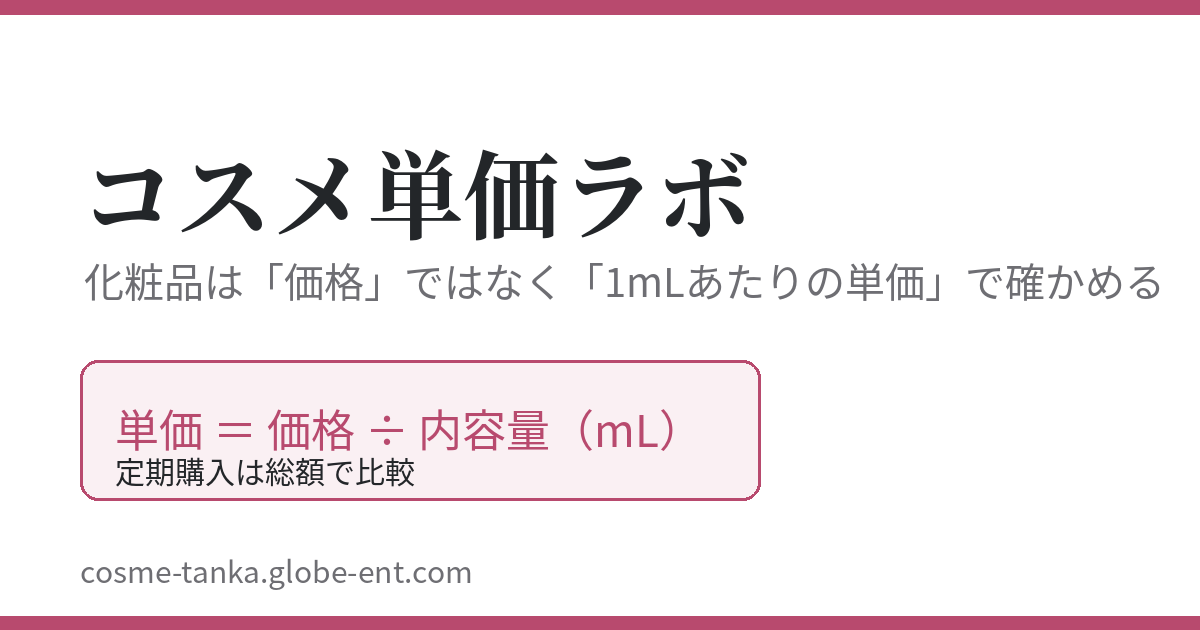
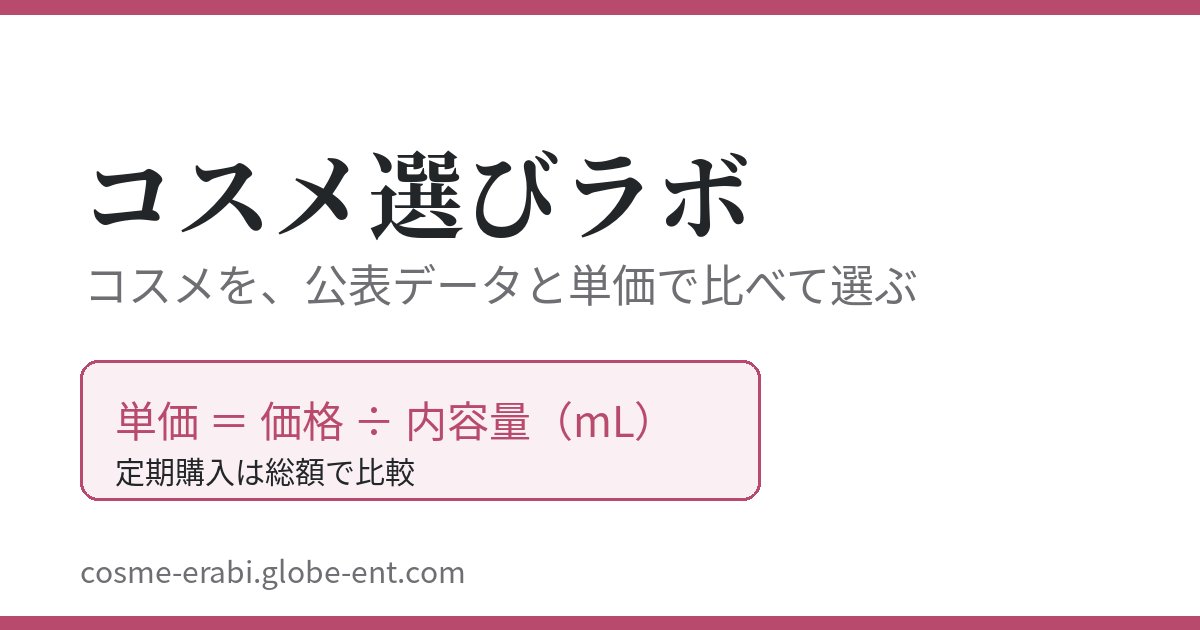
コスメ選びラボへリブランド（新ドメイン対応）

diff --git a/index.html b/index.html
@@ -3,31 +3,31 @@
 <head>
 <meta charset="utf-8">
 <meta name="viewport" content="width=device-width, initial-scale=1">
-<title>コスメ単価ラボ｜化粧品は「価格」ではなく1mLあたり単価と総額で確かめる</title>
+<title>コスメ選びラボ｜コスメを、公表データと単価で比べて選ぶ</title>
 <meta name="description" content="化粧品の価格・容量・購入条件を、メーカー公式情報と特定商取引法の表記で確認し、1mLあたり単価と定期購入の総額で比べるメディアです。使用感のレビューではなく、検証できる数字だけを扱います。">
 <link rel="preconnect" href="https://fonts.googleapis.com">
 <link rel="preconnect" href="https://fonts.gstatic.com" crossorigin>
 <link href="https://fonts.googleapis.com/css2?family=Zen+Kaku+Gothic+New:wght@400;500;700&family=Zen+Maru+Gothic:wght@500;700;900&display=swap" rel="stylesheet">
 <link rel="stylesheet" href="style.css">
-<meta property="og:title" content="コスメ単価ラボ｜化粧品は「価格」ではなく1mLあたり単価と総額で確かめる">
+<meta property="og:title" content="コスメ選びラボ｜コスメを、公表データと単価で比べて選ぶ">
 <meta property="og:description" content="化粧品の価格・容量・購入条件を、メーカー公式情報と特定商取引法の表記で確認し、1mLあたり単価と定期購入の総額で比べるメディアです。">
 <meta property="og:type" content="website">
-<meta property="og:url" content="https://cosme-tanka.globe-ent.com/">
-<meta property="og:image" content="https://cosme-tanka.globe-ent.com/ogp.png">
+<meta property="og:url" content="https://cosme-erabi.globe-ent.com/">
+<meta property="og:image" content="https://cosme-erabi.globe-ent.com/ogp.png">
 <meta name="twitter:card" content="summary_large_image">
-<meta name="twitter:image" content="https://cosme-tanka.globe-ent.com/ogp.png">
+<meta name="twitter:image" content="https://cosme-erabi.globe-ent.com/ogp.png">
 <link rel="icon" type="image/svg+xml" href="/favicon.svg">
-<link rel="alternate" type="application/rss+xml" title="コスメ単価ラボ" href="https://cosme-tanka.globe-ent.com/rss.xml">
+<link rel="alternate" type="application/rss+xml" title="コスメ選びラボ" href="https://cosme-erabi.globe-ent.com/rss.xml">
 <script type="application/ld+json">
 {
   "@context": "https://schema.org",
   "@graph": [
     {
       "@type": "Organization",
-      "@id": "https://cosme-tanka.globe-ent.com/#org",
-      "name": "コスメ単価ラボ",
-      "url": "https://cosme-tanka.globe-ent.com/",
-      "logo": "https://cosme-tanka.globe-ent.com/favicon.svg",
+      "@id": "https://cosme-erabi.globe-ent.com/#org",
+      "name": "コスメ選びラボ",
+      "url": "https://cosme-erabi.globe-ent.com/",
+      "logo": "https://cosme-erabi.globe-ent.com/favicon.svg",
       "sameAs": [
         "https://note.com/tabi_status_lab",
         "https://www.youtube.com/@tabi_status_lab",
@@ -36,10 +36,10 @@
     },
     {
       "@type": "WebSite",
-      "@id": "https://cosme-tanka.globe-ent.com/#site",
-      "name": "コスメ単価ラボ",
-      "url": "https://cosme-tanka.globe-ent.com/",
-      "publisher": { "@id": "https://cosme-tanka.globe-ent.com/#org" },
+      "@id": "https://cosme-erabi.globe-ent.com/#site",
+      "name": "コスメ選びラボ",
+      "url": "https://cosme-erabi.globe-ent.com/",
+      "publisher": { "@id": "https://cosme-erabi.globe-ent.com/#org" },
       "inLanguage": "ja"
     }
   ]
@@ -48,7 +48,7 @@
 </head>
 <body>
 <header class="site">
-  <div class="name"><a href="index.html">コスメ単価ラボ</a></div>
+  <div class="name"><a href="index.html">コスメ選びラボ</a></div>
   <div class="tag">化粧品は、表示価格ではなく「単価」と「総額」で確かめるためのメディアです。</div>
   <nav class="main">
     <a href="articles.html">記事一覧</a>
@@ -57,7 +57,7 @@
 </header>
 <main>
   <p class="leadline">同じ化粧水でも、容量が違えば価格の意味が違う。</p>
-  <p class="leadsub">化粧品の価格は、本体・詰め替え・大容量・携帯用で容量がバラバラです。このサイトでは、税込価格 ÷ 内容量 ＝「1mLあたり単価」に直し、定期購入は「最低継続回数までの総額」で比べます。使ってみた感想ではなく、公式情報で検証できる数字だけを扱います。</p>
+  <p class="leadsub">コスメ選びラボは、化粧品を「公表データ」で比べて選ぶためのサイトです。メーカー公表の価格・容量・スペックを横並びにし、1mLあたり単価や定期購入の総額といった計算を重ねて、表示価格だけでは分からない違いを整理します。使ってみた感想ではなく、公式情報で検証できる数字だけを扱います。</p>
   <p class="dateline">公開日：2026年11月9日｜最終更新日：2026年11月9日｜情報確認日：2026年11月9日（下記の数値の確認日）</p>
   <figure>
     <div class="sheet">
@@ -70,11 +70,11 @@
   <div class="disclosure">このサイトはアフィリエイトプログラムを利用する場合があります。広告を含む記事には「PR」と明記します。方針は<a href="about.html">運営者情報と広告・編集方針</a>をご覧ください。</div>
 
   <h1>このサイトでやること</h1>
-  <p>化粧品の比較で失敗する典型は、「○円」という表示価格だけを見て決めることです。容量が違えば単価は変わり、定期購入は初回価格と総額が大きくずれます。このサイトでは、次の3つだけを扱います。</p>
-  <div class="card"><div class="t">1. 単価の計算</div><div class="d">税込価格 ÷ 内容量で、1mL（または1g）あたりの単価を出します。本体・詰め替え・大容量・セット品を同じ物差しに乗せます。</div></div>
-  <div class="card"><div class="t">2. 定期購入の総額表示</div><div class="d">定期コースは初回価格ではなく、最低継続回数までの総支払額と解約条件で比べます。一次情報源は各販売元の特定商取引法の表記です。</div></div>
-  <div class="card"><div class="t">3. 条件の確認</div><div class="d">容量表記、購入形態、解約の申出期限など、買う前に公式情報で確かめるべき条件を整理します。</div></div>
-  <p>なお、このサイトは<strong>レビューサイトではありません</strong>。運営者が使っていない商品の使用感や効果は書きません。効能に触れる場合も、厚生労働省が化粧品で表示できると定めた効能の範囲（56項目）の中だけに限ります。</p>
+  <p>化粧品の比較で失敗する典型は、「○円」という表示価格だけを見て決めることです。容量が違えば単価は変わり、定期購入は初回価格と総額が大きくずれます。このサイトでは、次の3つを扱います。</p>
+  <div class="card"><div class="t">1. 商品を比べる</div><div class="d">メーカー公表のスペック・価格・容量を横並びにし、販売サイトのレビュー件数などの統計と単価を添えて、用途に合わせた選び方を整理します。</div></div>
+  <div class="card"><div class="t">2. 単価の計算</div><div class="d">税込価格 ÷ 内容量で、1mL（または1g）あたりの単価を出します。本体・詰め替え・大容量・セット品を同じ物差しに乗せます。</div></div>
+  <div class="card"><div class="t">3. 定期購入の総額表示</div><div class="d">定期コースは初回価格ではなく、最低継続回数までの総支払額と解約条件で比べます。一次情報源は各販売元の特定商取引法の表記です。</div></div>
+  <p>なお、運営者が使っていない商品の使用感や効果は書きません。商品の紹介は、メーカー公表の情報と検証できる数字に基づいて行います。効能に触れる場合も、厚生労働省が化粧品で表示できると定めた効能の範囲（56項目）の中だけに限ります。</p>
 
   <h2>記事</h2>
   <a class="thumbrow" href="articles/ml-tanka-dashikata.html"><span><span class="t">化粧水・乳液の「1mLあたり単価」の出し方 — 本体・詰め替え・大容量を同じ土俵で比べる</span><span class="d">検証計算：単価＝税込価格÷内容量の定義、容量表記の読み方、無印良品の公式価格で実際に計算した例を示します。</span></span></a>
@@ -83,7 +83,7 @@
 <footer class="site">
   <a href="about.html">運営者情報・広告方針</a><a href="privacy.html">プライバシーポリシー</a><a href="contact.html">お問い合わせ</a>
   <div class="sister">姉妹メディア：<a href="https://travel.globe-ent.com/">旅ステータスラボ</a>／<a href="https://furusato.globe-ent.com/">限度額ラボ</a>／<a href="https://koteihi.globe-ent.com/">固定費ラボ</a></div>
-  <div>© コスメ単価ラボ</div>
+  <div>© コスメ選びラボ</div>
 </footer>
 </body>
 </html>

diff --git a/about.html b/about.html
@@ -3,27 +3,27 @@
 <head>
 <meta charset="utf-8">
 <meta name="viewport" content="width=device-width, initial-scale=1">
-<title>運営者情報と広告・編集方針｜コスメ単価ラボ</title>
+<title>運営者情報と広告・編集方針｜コスメ選びラボ</title>
 <link rel="preconnect" href="https://fonts.googleapis.com">
 <link rel="preconnect" href="https://fonts.gstatic.com" crossorigin>
 <link href="https://fonts.googleapis.com/css2?family=Zen+Kaku+Gothic+New:wght@400;500;700&family=Zen+Maru+Gothic:wght@500;700;900&display=swap" rel="stylesheet">
 <link rel="stylesheet" href="style.css">
-<meta property="og:title" content="運営者情報と広告・編集方針｜コスメ単価ラボ">
+<meta property="og:title" content="運営者情報と広告・編集方針｜コスメ選びラボ">
 <meta property="og:description" content="化粧品の価格・容量・購入条件を公式情報で確認し、1mLあたり単価と定期購入の総額で比べるメディアです。">
 <meta property="og:type" content="website">
-<meta property="og:url" content="https://cosme-tanka.globe-ent.com/about.html">
-<meta property="og:image" content="https://cosme-tanka.globe-ent.com/ogp.png">
+<meta property="og:url" content="https://cosme-erabi.globe-ent.com/about.html">
+<meta property="og:image" content="https://cosme-erabi.globe-ent.com/ogp.png">
 <meta name="twitter:card" content="summary_large_image">
-<meta name="twitter:image" content="https://cosme-tanka.globe-ent.com/ogp.png">
+<meta name="twitter:image" content="https://cosme-erabi.globe-ent.com/ogp.png">
 <link rel="icon" type="image/svg+xml" href="/favicon.svg">
 <script type="application/ld+json">
 {
   "@context": "https://schema.org",
   "@type": "Organization",
-  "@id": "https://cosme-tanka.globe-ent.com/#org",
-  "name": "コスメ単価ラボ",
-  "url": "https://cosme-tanka.globe-ent.com/",
-  "logo": "https://cosme-tanka.globe-ent.com/favicon.svg",
+  "@id": "https://cosme-erabi.globe-ent.com/#org",
+  "name": "コスメ選びラボ",
+  "url": "https://cosme-erabi.globe-ent.com/",
+  "logo": "https://cosme-erabi.globe-ent.com/favicon.svg",
   "sameAs": [
     "https://note.com/tabi_status_lab",
     "https://www.youtube.com/@tabi_status_lab",
@@ -34,7 +34,7 @@
 </head>
 <body>
 <header class="site">
-  <div class="name"><a href="index.html">コスメ単価ラボ</a></div>
+  <div class="name"><a href="index.html">コスメ選びラボ</a></div>
   <nav class="main">
     <a href="articles.html">記事一覧</a>
     <a href="articles/ml-tanka-dashikata.html">1mL単価の出し方</a>
@@ -46,11 +46,11 @@
 
   <h2>運営者情報</h2>
   <table>
-    <tr><th>サイト名</th><td>コスメ単価ラボ（cosme-tanka.globe-ent.com）</td></tr>
+    <tr><th>サイト名</th><td>コスメ選びラボ（cosme-erabi.globe-ent.com）</td></tr>
     <tr><th>運営者</th><td>globe Entertainment</td></tr>
     <tr><th>連絡先</th><td><a href="contact.html">お問い合わせフォーム</a>（メールアドレスは公開していません）</td></tr>
     <tr><th>公式アカウント</th><td>姉妹メディアと共通で、<a href="https://note.com/tabi_status_lab" target="_blank" rel="noopener">note</a>／<a href="https://www.youtube.com/@tabi_status_lab" target="_blank" rel="noopener">YouTube</a>／<a href="https://www.threads.com/@tabi_status_lab" target="_blank" rel="noopener">Threads</a>（いずれも「旅ステータスラボ」名義）で更新情報を発信しています。</td></tr>
-    <tr><th>運営の目的</th><td>化粧品の価格・容量・購入条件について、一次情報に基づく検証計算の記事を提供すること。「レビューサイト」ではなく、価格と条件を検証する比較メディアです。</td></tr>
+    <tr><th>運営の目的</th><td>化粧品の商品紹介と比較の記事を、メーカー公表の情報と検証できる数字（単価・総額・レビュー統計など）に基づいて提供すること。使用感のレビューではなく、公表データで比べる比較メディアです。</td></tr>
     <tr><th>収益について</th><td>本サイトは、アフィリエイトプログラムによる広告収入で運営される場合があります。広告の扱いは下記の方針のとおりです。</td></tr>
   </table>
   <p>運営者の詳細な情報（氏名・住所等）については、法令に基づく開示請求があった場合に遅滞なく対応します。広告主およびASP（アフィリエイト・サービス・プロバイダ）に対しては、登録時に必要な情報を別途提出します。</p>
@@ -93,7 +93,7 @@
 <footer class="site">
   <a href="about.html">運営者情報・広告方針</a><a href="privacy.html">プライバシーポリシー</a><a href="contact.html">お問い合わせ</a>
   <div class="sister">姉妹メディア：<a href="https://travel.globe-ent.com/">旅ステータスラボ</a>／<a href="https://furusato.globe-ent.com/">限度額ラボ</a>／<a href="https://koteihi.globe-ent.com/">固定費ラボ</a></div>
-  <div>© コスメ単価ラボ</div>
+  <div>© コスメ選びラボ</div>
 </footer>
 </body>
 </html>

diff --git a/articles.html b/articles.html
@@ -3,24 +3,24 @@
 <head>
 <meta charset="utf-8">
 <meta name="viewport" content="width=device-width, initial-scale=1">
-<title>記事一覧｜コスメ単価ラボ</title>
-<meta name="description" content="コスメ単価ラボの記事一覧。化粧品の1mLあたり単価の計算方法と、定期購入の総額・解約条件の読み方をカテゴリ別に並べています。キーワードで絞り込みもできます。">
+<title>記事一覧｜コスメ選びラボ</title>
+<meta name="description" content="コスメ選びラボの記事一覧。化粧品の1mLあたり単価の計算方法と、定期購入の総額・解約条件の読み方をカテゴリ別に並べています。キーワードで絞り込みもできます。">
 <link rel="preconnect" href="https://fonts.googleapis.com">
 <link rel="preconnect" href="https://fonts.gstatic.com" crossorigin>
 <link href="https://fonts.googleapis.com/css2?family=Zen+Kaku+Gothic+New:wght@400;500;700&family=Zen+Maru+Gothic:wght@500;700;900&display=swap" rel="stylesheet">
 <link rel="stylesheet" href="style.css">
-<meta property="og:title" content="記事一覧｜コスメ単価ラボ">
-<meta property="og:description" content="コスメ単価ラボの記事一覧。化粧品の1mLあたり単価の計算方法と、定期購入の総額・解約条件の読み方をカテゴリ別に並べています。キーワードで絞り込みもできます。">
+<meta property="og:title" content="記事一覧｜コスメ選びラボ">
+<meta property="og:description" content="コスメ選びラボの記事一覧。化粧品の1mLあたり単価の計算方法と、定期購入の総額・解約条件の読み方をカテゴリ別に並べています。キーワードで絞り込みもできます。">
 <meta property="og:type" content="website">
-<meta property="og:url" content="https://cosme-tanka.globe-ent.com/articles.html">
-<meta property="og:image" content="https://cosme-tanka.globe-ent.com/ogp.png">
+<meta property="og:url" content="https://cosme-erabi.globe-ent.com/articles.html">
+<meta property="og:image" content="https://cosme-erabi.globe-ent.com/ogp.png">
 <meta name="twitter:card" content="summary_large_image">
-<meta name="twitter:image" content="https://cosme-tanka.globe-ent.com/ogp.png">
+<meta name="twitter:image" content="https://cosme-erabi.globe-ent.com/ogp.png">
 <link rel="icon" type="image/svg+xml" href="/favicon.svg">
 </head>
 <body>
 <header class="site">
-  <div class="name"><a href="index.html">コスメ単価ラボ</a></div>
+  <div class="name"><a href="index.html">コスメ選びラボ</a></div>
   <nav class="main">
     <a href="articles.html">記事一覧</a>
     <a href="articles/ml-tanka-dashikata.html">1mL単価の出し方</a>
@@ -66,7 +66,7 @@
 <footer class="site">
   <a href="about.html">運営者情報・広告方針</a><a href="privacy.html">プライバシーポリシー</a><a href="contact.html">お問い合わせ</a>
   <div class="sister">姉妹メディア：<a href="https://travel.globe-ent.com/">旅ステータスラボ</a>／<a href="https://furusato.globe-ent.com/">限度額ラボ</a>／<a href="https://koteihi.globe-ent.com/">固定費ラボ</a></div>
-  <div>© コスメ単価ラボ</div>
+  <div>© コスメ選びラボ</div>
 </footer>
 <script>
 (function(){

diff --git a/privacy.html b/privacy.html
@@ -3,23 +3,23 @@
 <head>
 <meta charset="utf-8">
 <meta name="viewport" content="width=device-width, initial-scale=1">
-<title>プライバシーポリシー｜コスメ単価ラボ</title>
+<title>プライバシーポリシー｜コスメ選びラボ</title>
 <link rel="preconnect" href="https://fonts.googleapis.com">
 <link rel="preconnect" href="https://fonts.gstatic.com" crossorigin>
 <link href="https://fonts.googleapis.com/css2?family=Zen+Kaku+Gothic+New:wght@400;500;700&family=Zen+Maru+Gothic:wght@500;700;900&display=swap" rel="stylesheet">
 <link rel="stylesheet" href="style.css">
-<meta property="og:title" content="プライバシーポリシー｜コスメ単価ラボ">
+<meta property="og:title" content="プライバシーポリシー｜コスメ選びラボ">
 <meta property="og:description" content="化粧品の価格・容量・購入条件を公式情報で確認し、1mLあたり単価と定期購入の総額で比べるメディアです。">
 <meta property="og:type" content="website">
-<meta property="og:url" content="https://cosme-tanka.globe-ent.com/privacy.html">
-<meta property="og:image" content="https://cosme-tanka.globe-ent.com/ogp.png">
+<meta property="og:url" content="https://cosme-erabi.globe-ent.com/privacy.html">
+<meta property="og:image" content="https://cosme-erabi.globe-ent.com/ogp.png">
 <meta name="twitter:card" content="summary_large_image">
-<meta name="twitter:image" content="https://cosme-tanka.globe-ent.com/ogp.png">
+<meta name="twitter:image" content="https://cosme-erabi.globe-ent.com/ogp.png">
 <link rel="icon" type="image/svg+xml" href="/favicon.svg">
 </head>
 <body>
 <header class="site">
-  <div class="name"><a href="index.html">コスメ単価ラボ</a></div>
+  <div class="name"><a href="index.html">コスメ選びラボ</a></div>
   <nav class="main">
     <a href="articles.html">記事一覧</a>
     <a href="articles/ml-tanka-dashikata.html">1mL単価の出し方</a>
@@ -38,7 +38,7 @@
 <footer class="site">
   <a href="about.html">運営者情報・広告方針</a><a href="privacy.html">プライバシーポリシー</a><a href="contact.html">お問い合わせ</a>
   <div class="sister">姉妹メディア：<a href="https://travel.globe-ent.com/">旅ステータスラボ</a>／<a href="https://furusato.globe-ent.com/">限度額ラボ</a>／<a href="https://koteihi.globe-ent.com/">固定費ラボ</a></div>
-  <div>© コスメ単価ラボ</div>
+  <div>© コスメ選びラボ</div>
 </footer>
 </body>
 </html>

diff --git a/contact.html b/contact.html
@@ -3,23 +3,23 @@
 <head>
 <meta charset="utf-8">
 <meta name="viewport" content="width=device-width, initial-scale=1">
-<title>お問い合わせ｜コスメ単価ラボ</title>
+<title>お問い合わせ｜コスメ選びラボ</title>
 <link rel="preconnect" href="https://fonts.googleapis.com">
 <link rel="preconnect" href="https://fonts.gstatic.com" crossorigin>
 <link href="https://fonts.googleapis.com/css2?family=Zen+Kaku+Gothic+New:wght@400;500;700&family=Zen+Maru+Gothic:wght@500;700;900&display=swap" rel="stylesheet">
 <link rel="stylesheet" href="style.css">
-<meta property="og:title" content="お問い合わせ｜コスメ単価ラボ">
+<meta property="og:title" content="お問い合わせ｜コスメ選びラボ">
 <meta property="og:description" content="化粧品の価格・容量・購入条件を公式情報で確認し、1mLあたり単価と定期購入の総額で比べるメディアです。">
 <meta property="og:type" content="website">
-<meta property="og:url" content="https://cosme-tanka.globe-ent.com/contact.html">
-<meta property="og:image" content="https://cosme-tanka.globe-ent.com/ogp.png">
+<meta property="og:url" content="https://cosme-erabi.globe-ent.com/contact.html">
+<meta property="og:image" content="https://cosme-erabi.globe-ent.com/ogp.png">
 <meta name="twitter:card" content="summary_large_image">
-<meta name="twitter:image" content="https://cosme-tanka.globe-ent.com/ogp.png">
+<meta name="twitter:image" content="https://cosme-erabi.globe-ent.com/ogp.png">
 <link rel="icon" type="image/svg+xml" href="/favicon.svg">
 </head>
 <body>
 <header class="site">
-  <div class="name"><a href="index.html">コスメ単価ラボ</a></div>
+  <div class="name"><a href="index.html">コスメ選びラボ</a></div>
   <nav class="main">
     <a href="articles.html">記事一覧</a>
     <a href="articles/ml-tanka-dashikata.html">1mL単価の出し方</a>
@@ -35,7 +35,7 @@
 <footer class="site">
   <a href="about.html">運営者情報・広告方針</a><a href="privacy.html">プライバシーポリシー</a><a href="contact.html">お問い合わせ</a>
   <div class="sister">姉妹メディア：<a href="https://travel.globe-ent.com/">旅ステータスラボ</a>／<a href="https://furusato.globe-ent.com/">限度額ラボ</a>／<a href="https://koteihi.globe-ent.com/">固定費ラボ</a></div>
-  <div>© コスメ単価ラボ</div>
+  <div>© コスメ選びラボ</div>
 </footer>
 </body>
 </html>

diff --git a/404.html b/404.html
@@ -3,7 +3,7 @@
 <head>
 <meta charset="utf-8">
 <meta name="viewport" content="width=device-width, initial-scale=1">
-<title>ページが見つかりません｜コスメ単価ラボ</title>
+<title>ページが見つかりません｜コスメ選びラボ</title>
 <link rel="preconnect" href="https://fonts.googleapis.com">
 <link rel="preconnect" href="https://fonts.gstatic.com" crossorigin>
 <link href="https://fonts.googleapis.com/css2?family=Zen+Kaku+Gothic+New:wght@400;500;700&family=Zen+Maru+Gothic:wght@500;700;900&display=swap" rel="stylesheet">
@@ -12,7 +12,7 @@
 </head>
 <body>
 <header class="site">
-  <div class="name"><a href="/index.html">コスメ単価ラボ</a></div>
+  <div class="name"><a href="/index.html">コスメ選びラボ</a></div>
   <nav class="main">
     <a href="/articles.html">記事一覧</a>
     <a href="/articles/ml-tanka-dashikata.html">1mL単価の出し方</a>
@@ -26,7 +26,7 @@
 <footer class="site">
   <a href="/about.html">運営者情報・広告方針</a><a href="/privacy.html">プライバシーポリシー</a><a href="/contact.html">お問い合わせ</a>
   <div class="sister">姉妹メディア：<a href="https://travel.globe-ent.com/">旅ステータスラボ</a>／<a href="https://furusato.globe-ent.com/">限度額ラボ</a>／<a href="https://koteihi.globe-ent.com/">固定費ラボ</a></div>
-  <div>© コスメ単価ラボ</div>
+  <div>© コスメ選びラボ</div>
 </footer>
 </body>
 </html>

diff --git a/style.css b/style.css
@@ -1,4 +1,4 @@
-/* コスメ単価ラボ 方向A（2026-11-09 ユーザー承認）
+/* コスメ選びラボ 方向A（2026-11-09 ユーザー承認）
    「美容メディアの柔らかさのまま、数字だけ研究室の精度で出す『単価の実験ノート』」＝数値併走型
    - 書体：見出し＝Zen Maru Gothic、本文＝Zen Kaku Gothic New、数字は tabular-nums で桁を揃える
    - 地＝白、識別色はコーラルローズ（--rose）だけに限定。罫線で組む。角丸カード・柔らかい影は使わない
